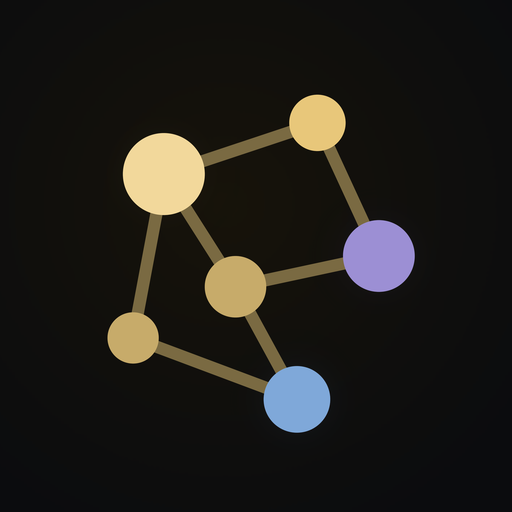
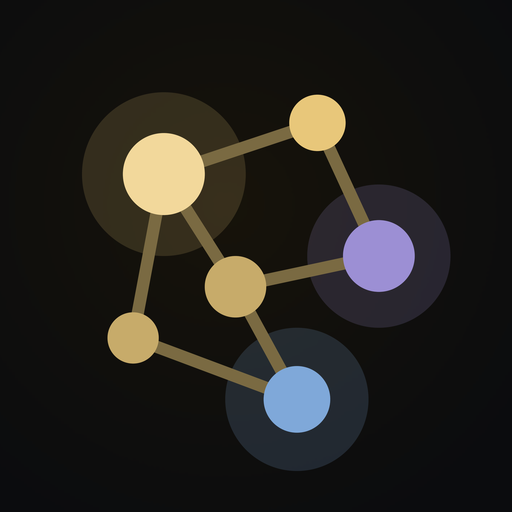
Give the halos their edge back
Two bugs and a wrong instinct, in sequence, all mine.

The icon first shipped with no visible halos at all. Measured just outside the
gold node: +4 red over background, where the mockup computes +34. The halos
were drawn onto a transparent RGBA layer which was then pasted using its own
alpha -- compositing a color onto a transparent pixel blends it toward black
by the mask, and the second paste applies the mask again, so the color arrives
at alpha squared. They now paste straight onto the ground in one blend.

Fixing that, I also replaced the center-out ramp with a rim that feathered
over the last 28% of the radius. The weight was then right and the look still
was not: a disc of color had become a blur. The mockup drew plain SVG circles
at a flat opacity, and the crispness IS the design -- these read as discs
sitting behind the nodes, not as glow.

So the disc is now hard-edged, built the way the nodes are: drawn oversampled
and downsampled, antialiased at the rim and nothing more. Verified by sampling
across it -- full strength to 16 units, background by 17, a one-unit
transition.

The mockup's values stand unchanged with the compositing fixed: 0.16 on the
gold, 0.18 on the purple and blue, radii 16/14/14. The inflated numbers I
reached for while the output looked weak are gone.

Unchanged at the maskable scale: the furthest halo rim lands at 35 of the 40
units inside Android's safe circle.

Changed region(s): [[0.1562, 0.1562, 0.5, 0.5], [0.5938, 0.3438, 0.9062, 0.6562], [0.4375, 0.625, 0.7188, 0.9375]]

diff --git a/scripts/make-icons.py b/scripts/make-icons.py
@@ -44,9 +44,11 @@ NODES = [
     (58, 78, 6.5, BLUE),
 ]
 LINKS = [(0, 1), (1, 2), (0, 3), (2, 3), (0, 4), (4, 5), (3, 5)]
-# Peak alpha, not flat fill: the ramp spreads it, so these read far softer
-# than the same numbers on an SVG circle. Tuned against the 512 render.
-HALOS = [(32, 34, 19, GOLD, 0.34), (74, 50, 17, PURPLE, 0.38), (58, 78, 17, BLUE, 0.38)]
+# (x, y, radius, color, alpha) -- the mockup values exactly. A FLAT alpha across
+# alpha across the disc, not a peak: see DISC, which holds them out to 72% of
+# the radius and only then feathers. An earlier version ramped from the center
+# instead, which looked like the same numbers and measured eight times weaker.
+HALOS = [(32, 34, 16, GOLD, 0.16), (74, 50, 14, PURPLE, 0.18), (58, 78, 14, BLUE, 0.18)]
 EDGE_W = 2.4
 
 # The simplified mark for 16 and 32, where six nodes and seven edges are mud.
@@ -69,7 +71,6 @@ def falloff(size, power=1.0):
     return g.resize((size, size), Image.BICUBIC)
 
 
-RAMP = falloff(512, power=1.35)  # halos: quick near the core, long tail
 VIGNETTE = falloff(512, power=1.15)  # ground: broader, flatter
 
 
@@ -109,19 +110,31 @@ def draw_mark(img, nodes, links, halos, edge_w, scale=1.0):
 
     layer = layer.resize((S, S), Image.LANCZOS)
 
-    # Halos go UNDER the mark, and are gradients rather than stacked circles.
+    # Halos go UNDER the mark, pasted STRAIGHT onto the ground.
+    #
+    # Not via an intermediate RGBA layer: compositing the color onto a
+    # transparent (so black) layer darkens it by the mask, and the layer's own
+    # alpha then applies the mask a second time. The color lands at alpha
+    # squared. Measured on the first build: +4 red just outside the gold node
+    # where the mockup gives +34.
+    #
+    # The disc is HARD-EDGED, drawn the same way the nodes are -- oversampled
+    # and downsampled, so the rim is antialiased and nothing more. Two softer
+    # versions were tried and both were wrong: a center-out ramp erased them,
+    # and a feathered rim turned a disc of color into a blur. The mockup drew
+    # plain circles at a flat opacity, and that crispness is the look.
     if halos:
-        base = Image.new("RGBA", (S, S), (0, 0, 0, 0))
         for x, y, r, col, alpha in halos:
             rr = int(r * scale / 100 * S * 2)
             if rr < 2:
                 continue
-            m = RAMP.resize((rr, rr), Image.BICUBIC).point(lambda v: int(v * alpha))
-            patch = Image.new("RGBA", (rr, rr), col + (255,))
+            m = Image.new("L", (rr * OS, rr * OS), 0)
+            ImageDraw.Draw(m).ellipse([0, 0, rr * OS - 1, rr * OS - 1], fill=int(255 * alpha))
+            m = m.resize((rr, rr), Image.LANCZOS)
+            patch = Image.new("RGB", (rr, rr), col)
             cx = int(((x - 50) * scale + 50) / 100 * S) - rr // 2
             cy = int(((y - 50) * scale + 50) / 100 * S) - rr // 2
-            base.paste(patch, (cx, cy), m)
-        img.paste(base, (0, 0), base)
+            img.paste(patch, (cx, cy), m)
 
     img.paste(layer, (0, 0), layer)
     return img
